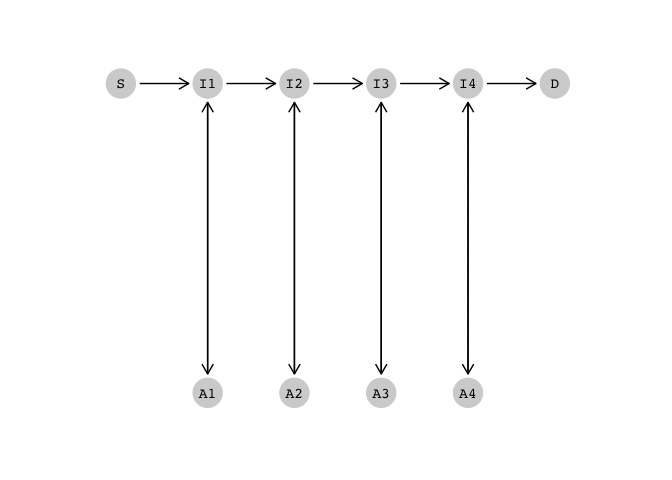
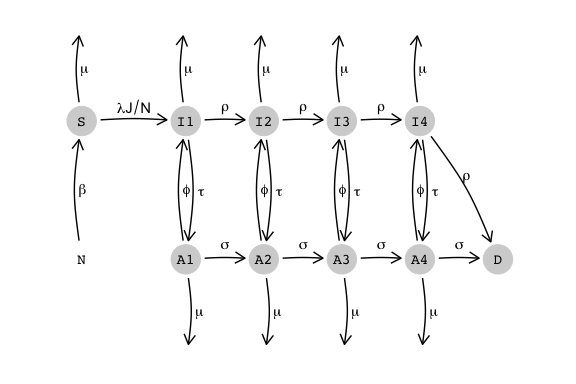
hiv diagram

diff --git a/inst/starter_models/hiv/README.md b/inst/starter_models/hiv/README.md
@@ -4,6 +4,7 @@ Steve Walker
 
 - [States](#states)
 - [Parameters](#parameters)
+- [Force-of-Infection](#force-of-infection)
 - [Packages Used](#packages-used)
 - [Dynamics](#dynamics)
 - [Solving the ODEs](#solving-the-odes)
@@ -38,9 +39,22 @@ This is a description of the HIV model proposed by ([Granich et al.
 | $\tau$      | Per-capita rate at which individuals become protected.                                                          |
 | $\phi$      | Per-capita rate at which individuals become unprotected.                                                        |
 
+# Force-of-Infection
+
+This model has the following, somewhat non-standard, functional form for
+the force-of-infection (per-capita transition rate from `S` to `I1`). $$
+\frac{\lambda J}{N}
+$$
+
+Where $\lambda = \lambda_0 e^{-\alpha P^n}$, $P = I/N$,
+$I = \sum_i(I_i + A_i)$, $J = \sum_i(I_i + \epsilon A_i)$, and $N$ is
+the total number of alive boxes.
+
+The rest of the transition rates are constant per-capita rates.
+
 # Packages Used
 
-The code in this artical uses the following packages.
+The code in this article uses the following packages.
 
 ``` r
 library(ggplot2)
@@ -65,39 +79,6 @@ spec = mp_tmb_library(
 
 The specification can be used to draw the flow diagram using the
 following code.
-
-``` r
-x_pos = c(
-    S = 1
-  , I1 = 2, I2 = 3, I3 = 4, I4 = 5
-  , A1 = 2, A2 = 3, A3 = 4, A4 = 5
-  , D = 6
-) / 7
-y_pos = c(
-    S = 6
-  , I1 = 6, I2 = 6, I3 = 6, I4 = 6
-  , A1 = 1, A2 = 1, A3 = 1, A4 = 1
-  , D = 6
-) / 7
-node_size = 10
-(spec
-  |> mp_flow_frame(topological_sort = FALSE)
-  |> filter(!abs_rate %in% c("mu", "sigma"))
-  |> distinct()
-  |> as_tbl_graph()
-  |> ggraph('manual', x = x_pos[name], y = y_pos[name])
-  + geom_edge_link(
-      arrow = arrow(length = unit(node_size * 0.3, 'mm'))
-    , end_cap = circle(node_size / 2, 'mm')
-    , start_cap = circle(node_size / 2, 'mm')
-  )
-  + geom_node_point(size = node_size, colour = "lightgrey")
-  + geom_node_text(aes(label = name), family = "mono")
-  + theme_graph(background = NA, plot_margin = margin(0, 0, 0, 0))
-  + scale_x_continuous(limits = c(0, 1))
-  + scale_y_continuous(limits = c(0, 1))
-)
-```
 
 ![](./figures/flow_diagram-1.png)<!-- -->
 
